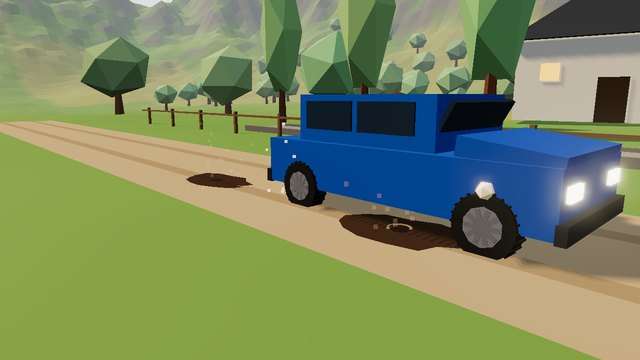
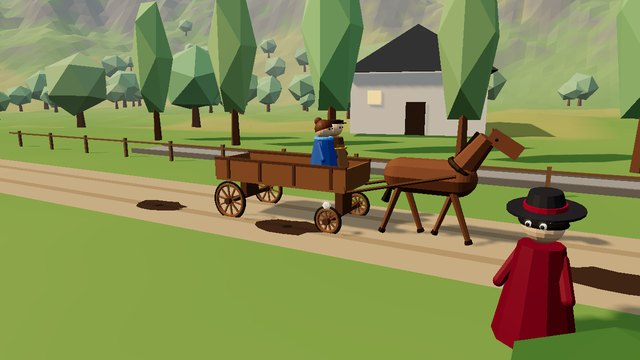
La roue et le caillou: Alice's car becomes an old farm cart drawn by a horse, Alice and Bob on its bench (r252)
Simon (r252): replace the car by an old-school cart, Alice and Bob sitting in it, dragged by a horse,
everything else the same. props.js car() now builds a four-wheeled wooden cart (spoked wheels with
iron tyres, plank sides, a bench), a horse between two shafts whose legs trot with the distance
rolled, and the two characters seated (person('a') on the near side, person('b')). The near front
wheel keeps the stone and r = 2/2π, on the same axle, so every mark, gap and value is unchanged;
the back wheels are bigger and turn by their own radius. Alice's bubble hangs from her seat.
kasiski/vignette.jpg reshot (tools/vignette.py kasiski --hash '#story=2' --click '#play'
--pos -31,2.9,8.6 --target -35.6,1.0,0 --wait 9000): the home card showed the blue car.

Persona: Mira Cryptographie
Session: mira-fedora-deux-generaux-98

diff --git a/kasiski/js/props.js b/kasiski/js/props.js
@@ -1,6 +1,6 @@
-// The objects of the story, built from primitives: Alice's car (a stone wedged in the tread of its
-// near front tyre), the key wheel (a five-sided drum, one key letter on each face, that tumbles face
-// after face along the lane), the letter tiles, the floating tags, and the characters.
+// The objects of the story, built from primitives: Alice's cart, drawn by a horse (a stone wedged
+// under the iron tyre of its near front wheel), the key wheel (a five-sided drum, one key letter on
+// each face, that tumbles face after face along the lane), the letter tiles, the floating tags, and the characters.
 import * as THREE from 'three';
 
 export const COLORS = { a: 0x4da3ff, b: 0xffc24d, e: 0xff3347 };
@@ -8,65 +8,100 @@ export const COLORS = { a: 0x4da3ff, b: 0xffc24d, e: 0xff3347 };
 const mat = (color, o = {}) => new THREE.MeshStandardMaterial({ color, roughness: .6, flatShading: true, ...o });
 const dark = mat(0x15110c, { roughness: 1 });
 
-// ---------- the car ----------
-// Wheel radius from the circumference: 2 m around (a 205/55 R16 is 1.99 m) -> r = 2 / 2π = 0.318 m.
+// ---------- the cart ----------
+// r252 (Simon): an old farm cart, drawn by a horse, Alice and Bob on its bench. Its near front wheel
+// keeps the stone and the 2 m around: r = 2 / 2π = 0.318 m (the car's 205/55 R16 was 1.99 m).
 export const WHEEL_R = 2 / (2 * Math.PI);
-export const AXLES = { front: 1.32, back: -1.28 };   // along the car, from its centre
+export const AXLES = { front: 1.32, back: -1.28 };   // along the cart, from its centre
 export const TRACK_Z = .78;                          // half the distance between the left and right wheels
+const BACK_R = .46;                                  // the back wheels are the bigger ones, as on a farm wagon
 
-// A tyre and its rim, turning about z. The near front one carries the stone: userData.stone.
-function wheel(withStone) {
+const wood = mat(0x8a5a32, { roughness: .85 }), woodDark = mat(0x5e3b1f, { roughness: .9 }), iron = mat(0x34363b, { metalness: .5, roughness: .5 });
+
+// A wooden wheel with an iron tyre, turning about z. The near front one carries the stone: userData.stone.
+function wheel(r, withStone) {
   const g = new THREE.Group(), spin = new THREE.Group(); g.add(spin);
-  const tyre = new THREE.Mesh(new THREE.CylinderGeometry(WHEEL_R, WHEEL_R, .21, 28), mat(0x1c1c1f, { roughness: .95 }));
-  tyre.rotation.x = Math.PI / 2; tyre.castShadow = true; spin.add(tyre);
-  const rim = new THREE.Mesh(new THREE.CylinderGeometry(WHEEL_R * .62, WHEEL_R * .62, .225, 10), mat(0xb8bcc4, { metalness: .6, roughness: .35 }));
-  rim.rotation.x = Math.PI / 2; spin.add(rim);
+  const tyre = new THREE.Mesh(new THREE.TorusGeometry(r - .022, .03, 6, 32), iron); tyre.castShadow = true; spin.add(tyre);
+  const felloe = new THREE.Mesh(new THREE.TorusGeometry(r - .075, .042, 6, 24), wood); spin.add(felloe);
+  const hub = new THREE.Mesh(new THREE.CylinderGeometry(.075, .085, .24, 10), woodDark); hub.rotation.x = Math.PI / 2; spin.add(hub);
   // spokes, so the turning shows
-  for (let i = 0; i < 5; i++) {
-    const s = new THREE.Mesh(new THREE.BoxGeometry(WHEEL_R * 1.1, .05, .235), mat(0x8a8f98, { metalness: .5 }));
-    s.rotation.z = i / 5 * Math.PI; spin.add(s);
-  }
-  // tread blocks around the tyre
-  for (let i = 0; i < 24; i++) {
-    const a = i / 24 * Math.PI * 2, b = new THREE.Mesh(new THREE.BoxGeometry(.035, .02, .2), dark);
-    b.position.set(Math.cos(a) * WHEEL_R, Math.sin(a) * WHEEL_R, 0); b.rotation.z = a; spin.add(b);
+  for (let i = 0; i < 10; i++) {
+    const a = i / 10 * Math.PI * 2, sp = new THREE.Mesh(new THREE.BoxGeometry(r - .1, .035, .035), wood);
+    sp.position.set(Math.cos(a) * (r - .02) / 2, Math.sin(a) * (r - .02) / 2, 0); sp.rotation.z = a; spin.add(sp);
   }
   if (withStone) {
-    // the stone, at the bottom of the tread when the wheel's angle is 0; a little larger than life, and pale, to be seen
+    // the stone, wedged under the iron tyre at the bottom when the wheel's angle is 0; a little larger than life, and pale, to be seen
     const stone = new THREE.Mesh(new THREE.IcosahedronGeometry(.095, 0), mat(0xf4ecd8, { roughness: .8, emissive: 0x6a5a30, emissiveIntensity: .8 }));
-    stone.position.set(0, -WHEEL_R - .02, .08); stone.castShadow = true; spin.add(stone);   // on the outer edge of the tread, seen from the road side
+    stone.position.set(0, -WHEEL_R - .02, .05); stone.castShadow = true; spin.add(stone);   // on the road side of the tyre
     g.userData.stone = stone;
   }
   g.userData.spin = spin;
   return g;
 }
 
-// A small hatchback, facing +x, its wheels on the ground at y = 0. userData.roll(d): the car has
-// moved d metres from where its stone touched the ground, so the wheels turn by d / r.
+// The horse, facing +x, hooves at y = 0, its shoulder at x = 0. userData.walk(d): its legs trot with the distance.
+function horse() {
+  const g = new THREE.Group(), coat = mat(0x7a4a2a, { roughness: .8 }), hair = mat(0x2a1a10, { roughness: .9 });
+  const body = new THREE.Mesh(new THREE.CapsuleGeometry(.36, 1.15, 4, 10), coat); body.rotation.z = Math.PI / 2; body.position.set(-.55, 1.3, 0); body.castShadow = true; g.add(body);
+  const neck = new THREE.Mesh(new THREE.CylinderGeometry(.17, .27, .9, 8), coat); neck.position.set(.25, 1.75, 0); neck.rotation.z = -.62; neck.castShadow = true; g.add(neck);
+  const head = new THREE.Group(); head.position.set(.62, 2.1, 0); g.add(head);
+  const skull = new THREE.Mesh(new THREE.BoxGeometry(.62, .26, .24), coat); skull.position.set(.2, -.08, 0); skull.rotation.z = -.55; skull.castShadow = true; head.add(skull);
+  for (const z of [-.07, .07]) { const ear = new THREE.Mesh(new THREE.ConeGeometry(.045, .16, 5), coat); ear.position.set(-.03, .14, z); head.add(ear);
+    const eye = new THREE.Mesh(new THREE.SphereGeometry(.03, 6, 5), dark); eye.position.set(.06, .0, z * 1.75); head.add(eye); }
+  const mane = new THREE.Mesh(new THREE.BoxGeometry(.1, .85, .07), hair); mane.position.set(.1, 1.86, 0); mane.rotation.z = -.62; g.add(mane);
+  const tail = new THREE.Mesh(new THREE.ConeGeometry(.09, .75, 6), hair); tail.position.set(-1.33, 1.05, 0); tail.rotation.z = -.35; g.add(tail);
+  // the collar the shafts are hitched to
+  const collar = new THREE.Mesh(new THREE.TorusGeometry(.27, .055, 6, 14), mat(0x3a2414)); collar.position.set(.08, 1.52, 0);
+  collar.quaternion.setFromUnitVectors(new THREE.Vector3(0, 0, 1), new THREE.Vector3(Math.sin(.62), Math.cos(.62), 0)); g.add(collar);   // round the neck
+  const legs = [];
+  for (const [x, z, ph] of [[-.05, .17, 0], [-.05, -.17, Math.PI], [-1.08, .17, Math.PI], [-1.08, -.17, 0]]) {   // a trot: diagonal pairs together
+    const hip = new THREE.Group(); hip.position.set(x, 1.12, z); g.add(hip);
+    const leg = new THREE.Mesh(new THREE.CylinderGeometry(.075, .055, 1.06, 6), coat); leg.position.y = -.53; leg.castShadow = true; hip.add(leg);
+    const hoof = new THREE.Mesh(new THREE.CylinderGeometry(.07, .08, .08, 6), hair); hoof.position.y = -1.08; hip.add(hoof);
+    legs.push([hip, ph]);
+  }
+  g.userData.walk = d => { const t = d / 1.1 * Math.PI; for (const [hip, ph] of legs) hip.rotation.z = Math.sin(t + ph) * .35; head.rotation.z = Math.sin(t * 2) * .04; };
+  return g;
+}
+
+// An old farm cart drawn by a horse, facing +x, its wheels on the ground at y = 0. userData.roll(d):
+// the cart has moved d metres from where its stone touched the ground, so each wheel turns by d / its r.
 export function car() {
-  const g = new THREE.Group(), paint = mat(0x2f6fd1, { roughness: .35, metalness: .3, flatShading: false });
-  const body = new THREE.Mesh(new THREE.BoxGeometry(3.9, .62, 1.7), paint); body.position.y = .62; body.castShadow = true; g.add(body);
-  const hood = new THREE.Mesh(new THREE.BoxGeometry(1, .2, 1.6), paint); hood.position.set(1.45, .98, 0); hood.rotation.z = -.12; g.add(hood);
-  const cabin = new THREE.Mesh(new THREE.BoxGeometry(2.1, .62, 1.5), paint); cabin.position.set(-.35, 1.22, 0); cabin.castShadow = true; g.add(cabin);
-  const glass = mat(0x3a5068, { roughness: .12, metalness: .5, flatShading: false });
-  const wind = new THREE.Mesh(new THREE.BoxGeometry(.06, .5, 1.36), glass); wind.position.set(.72, 1.24, 0); wind.rotation.z = -.5; g.add(wind);
-  for (const z of [-.76, .76]) for (const [x, w] of [[.05, .8], [-.85, .8]]) { const side = new THREE.Mesh(new THREE.BoxGeometry(w, .36, .03), glass); side.position.set(x, 1.27, z); g.add(side); }
-  const lamp = new THREE.MeshStandardMaterial({ color: 0x000000, emissive: 0xfff2c8, emissiveIntensity: 2 });
-  for (const z of [-.58, .58]) { const l = new THREE.Mesh(new THREE.BoxGeometry(.06, .14, .3), lamp); l.position.set(1.96, .7, z); g.add(l); }
-  const red = new THREE.MeshStandardMaterial({ color: 0x000000, emissive: 0xff2a2a, emissiveIntensity: 1.5 });
-  for (const z of [-.6, .6]) { const l = new THREE.Mesh(new THREE.BoxGeometry(.06, .14, .26), red); l.position.set(-1.96, .72, z); g.add(l); }
-  const bumper = mat(0x26282e);
-  for (const x of [-1.98, 1.98]) { const b = new THREE.Mesh(new THREE.BoxGeometry(.1, .18, 1.72), bumper); b.position.set(x, .38, 0); g.add(b); }
+  const g = new THREE.Group(), FLOOR = .95;
+  const floor = new THREE.Mesh(new THREE.BoxGeometry(3.4, .08, 1.36), wood); floor.position.set(-.05, FLOOR, 0); floor.castShadow = true; g.add(floor);
+  // plank sides, a darker rail on top
+  for (const z of [-.66, .66]) {
+    const side = new THREE.Mesh(new THREE.BoxGeometry(3.4, .42, .05), wood); side.position.set(-.05, FLOOR + .25, z); side.castShadow = true; g.add(side);
+    const rail = new THREE.Mesh(new THREE.BoxGeometry(3.45, .06, .08), woodDark); rail.position.set(-.05, FLOOR + .48, z); g.add(rail);
+    for (const x of [-1.35, -.45, .45, 1.35]) { const post = new THREE.Mesh(new THREE.BoxGeometry(.07, .46, .07), woodDark); post.position.set(x, FLOOR + .25, z * 1.04); g.add(post); }
+  }
+  for (const x of [-1.75, 1.65]) { const end = new THREE.Mesh(new THREE.BoxGeometry(.05, .42, 1.36), wood); end.position.set(x, FLOOR + .25, 0); g.add(end); }
+  // the axles and the beam under the floor
+  for (const [ax, x] of Object.entries(AXLES)) { const r = ax === 'front' ? WHEEL_R : BACK_R;
+    const axle = new THREE.Mesh(new THREE.BoxGeometry(.1, .1, TRACK_Z * 2), woodDark); axle.position.set(x, r, 0); g.add(axle);
+    const block = new THREE.Mesh(new THREE.BoxGeometry(.18, FLOOR - r, .5), woodDark); block.position.set(x, (FLOOR + r) / 2, 0); g.add(block); }
+  // the bench, across the front
+  const bench = new THREE.Mesh(new THREE.BoxGeometry(.4, .07, 1.3), woodDark); bench.position.set(.95, FLOOR + .38, 0); g.add(bench);
   const wheels = [];
   for (const [ax, x] of Object.entries(AXLES)) for (const z of [-TRACK_Z, TRACK_Z]) {
-    const w = wheel(ax === 'front' && z > 0); w.position.set(x, WHEEL_R, z); g.add(w); wheels.push(w);
+    const r = ax === 'front' ? WHEEL_R : BACK_R, w = wheel(r, ax === 'front' && z > 0);
+    w.position.set(x, r, z); w.userData.r = r; g.add(w); wheels.push(w);
   }
+  // the horse ahead, between two shafts from the front of the cart to its collar
+  const h = horse(); h.position.set(3.75, 0, 0); g.add(h);
+  for (const z of [-.42, .42]) {
+    const a = new THREE.Vector3(1.6, FLOOR - .05, z * 1.3), b = new THREE.Vector3(3.8, 1.42, z), shaft = new THREE.Mesh(new THREE.CylinderGeometry(.035, .035, a.distanceTo(b), 6), woodDark);
+    shaft.position.copy(a).add(b).multiplyScalar(.5); shaft.quaternion.setFromUnitVectors(new THREE.Vector3(0, 1, 0), b.clone().sub(a).normalize()); g.add(shaft);
+  }
+  // Alice (the near side, she holds the reins) and Bob, seated on the bench
+  const seated = {};
+  for (const [k, z] of [['a', .26], ['b', -.26]]) {
+    const p = person(k); p.scale.setScalar(.44); p.position.set(.95, FLOOR + .1, z); p.rotation.y = Math.PI / 2; g.add(p); seated[k] = p;
+  }
+  g.userData.seated = seated;
   g.userData.wheels = wheels;
   g.userData.stoneWheel = wheels.find(w => w.userData.stone);
-  g.userData.roll = d => { for (const w of wheels) w.userData.spin.rotation.z = -d / WHEEL_R; };
-  // Alice at the wheel
-  const head = new THREE.Mesh(new THREE.SphereGeometry(.2, 12, 10), mat(0xf0c8a0)); head.position.set(-.1, 1.3, .32); g.add(head);
-  const hair = new THREE.Mesh(new THREE.SphereGeometry(.22, 12, 8, 0, Math.PI * 2, 0, Math.PI * .55), mat(0x6b3d1f)); hair.position.set(-.13, 1.34, .32); g.add(hair);
+  g.userData.roll = d => { for (const w of wheels) w.userData.spin.rotation.z = -d / w.userData.r; h.userData.walk(d); };
   return g;
 }
 

diff --git a/kasiski/js/stage.js b/kasiski/js/stage.js
@@ -75,7 +75,7 @@ export class Stage {
   stoneX(d = this.st.car) { return START_X + d; }                 // the stone wheel's axle, along x
   carX(d) { return this.stoneX(d) - AXLES.front; }
   head(k) {
-    if (k === 'a') return this.st.lane ? this.people.a.position.clone().add(v(0, 2.1, 0)) : this.car.position.clone().add(v(-.1, 1.75, .4));
+    if (k === 'a') return this.st.lane ? this.people.a.position.clone().add(v(0, 2.1, 0)) : this.car.position.clone().add(v(.95, 2.2, .26));
     if (k === 'kw') return this.kwheel.position.clone().add(v(0, 1.3, 0));
     if (k === 'bars') return this.barsAt.clone().add(v(0, 3.6, 0));
     // on a phone, while Eve reads the arcs (from behind the lane, or beside her bars in step 10), her bubble keeps to the top, off the arcs
